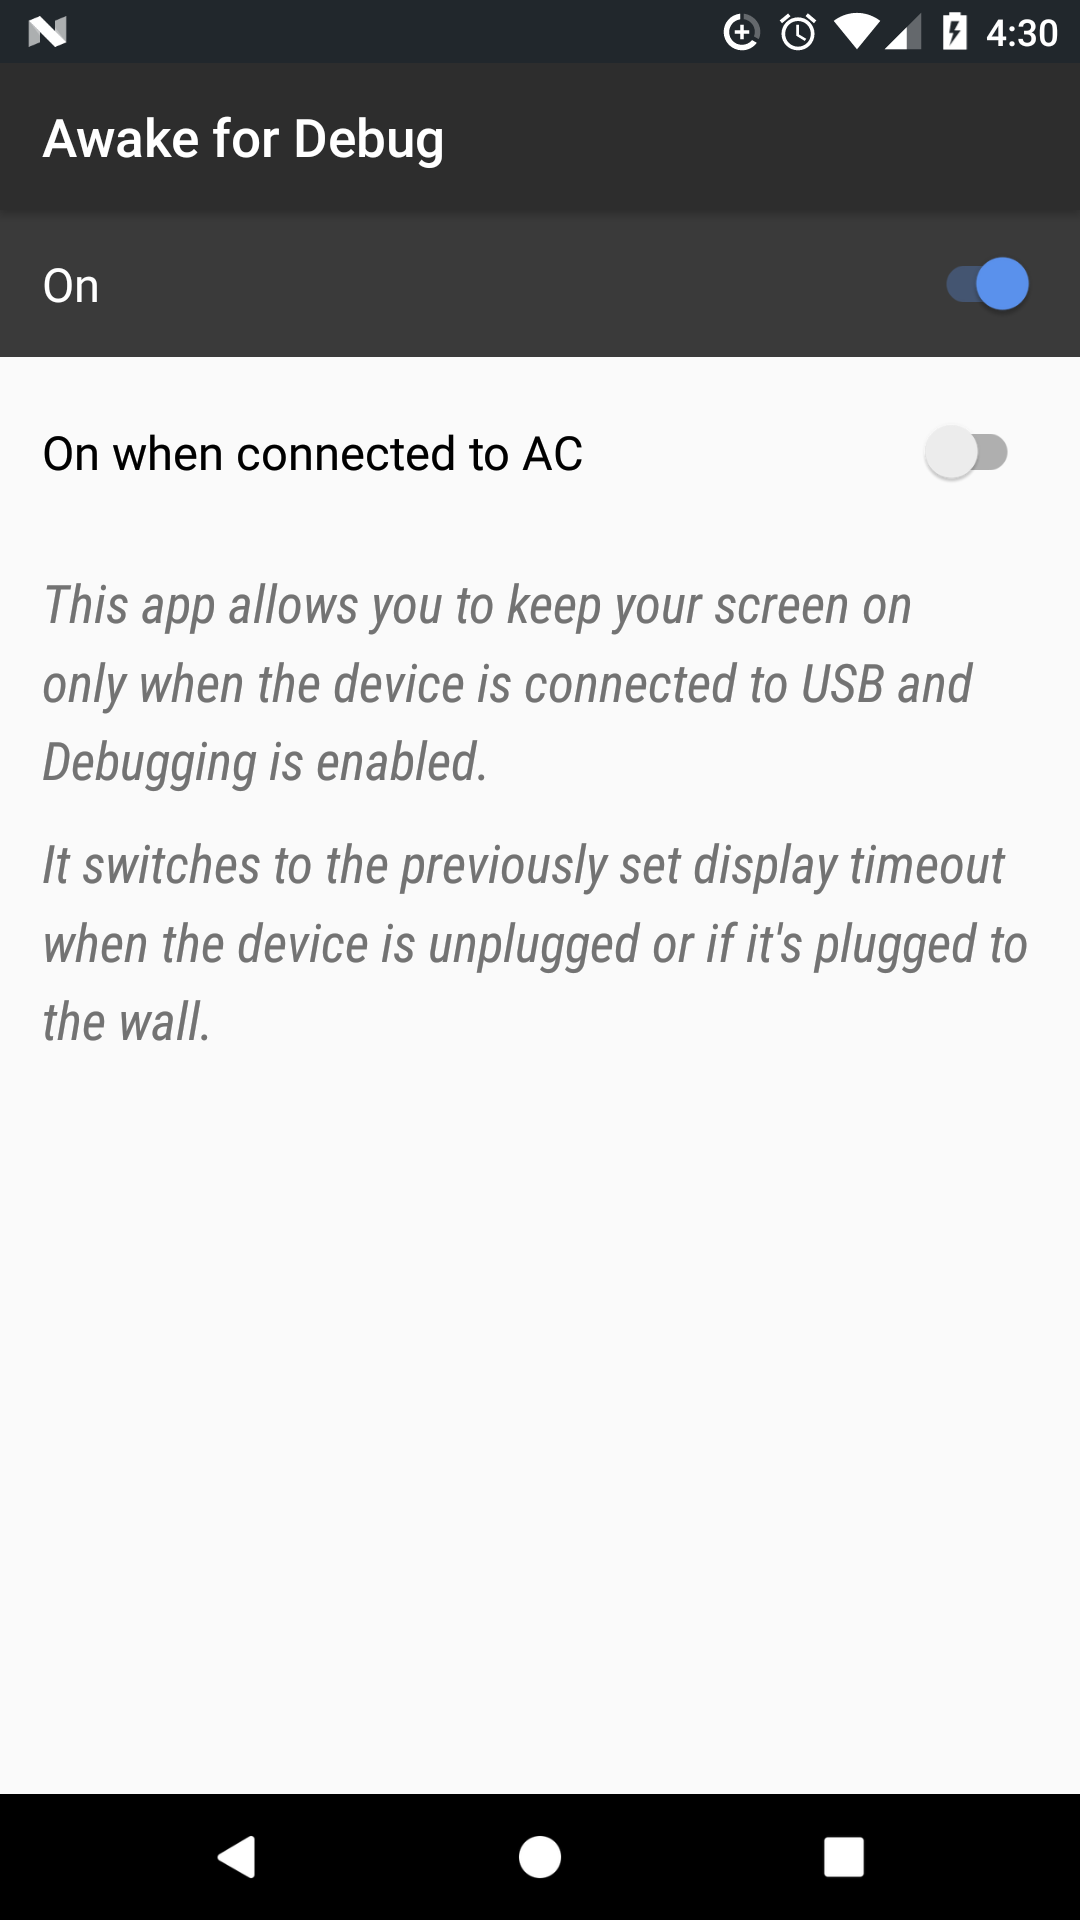
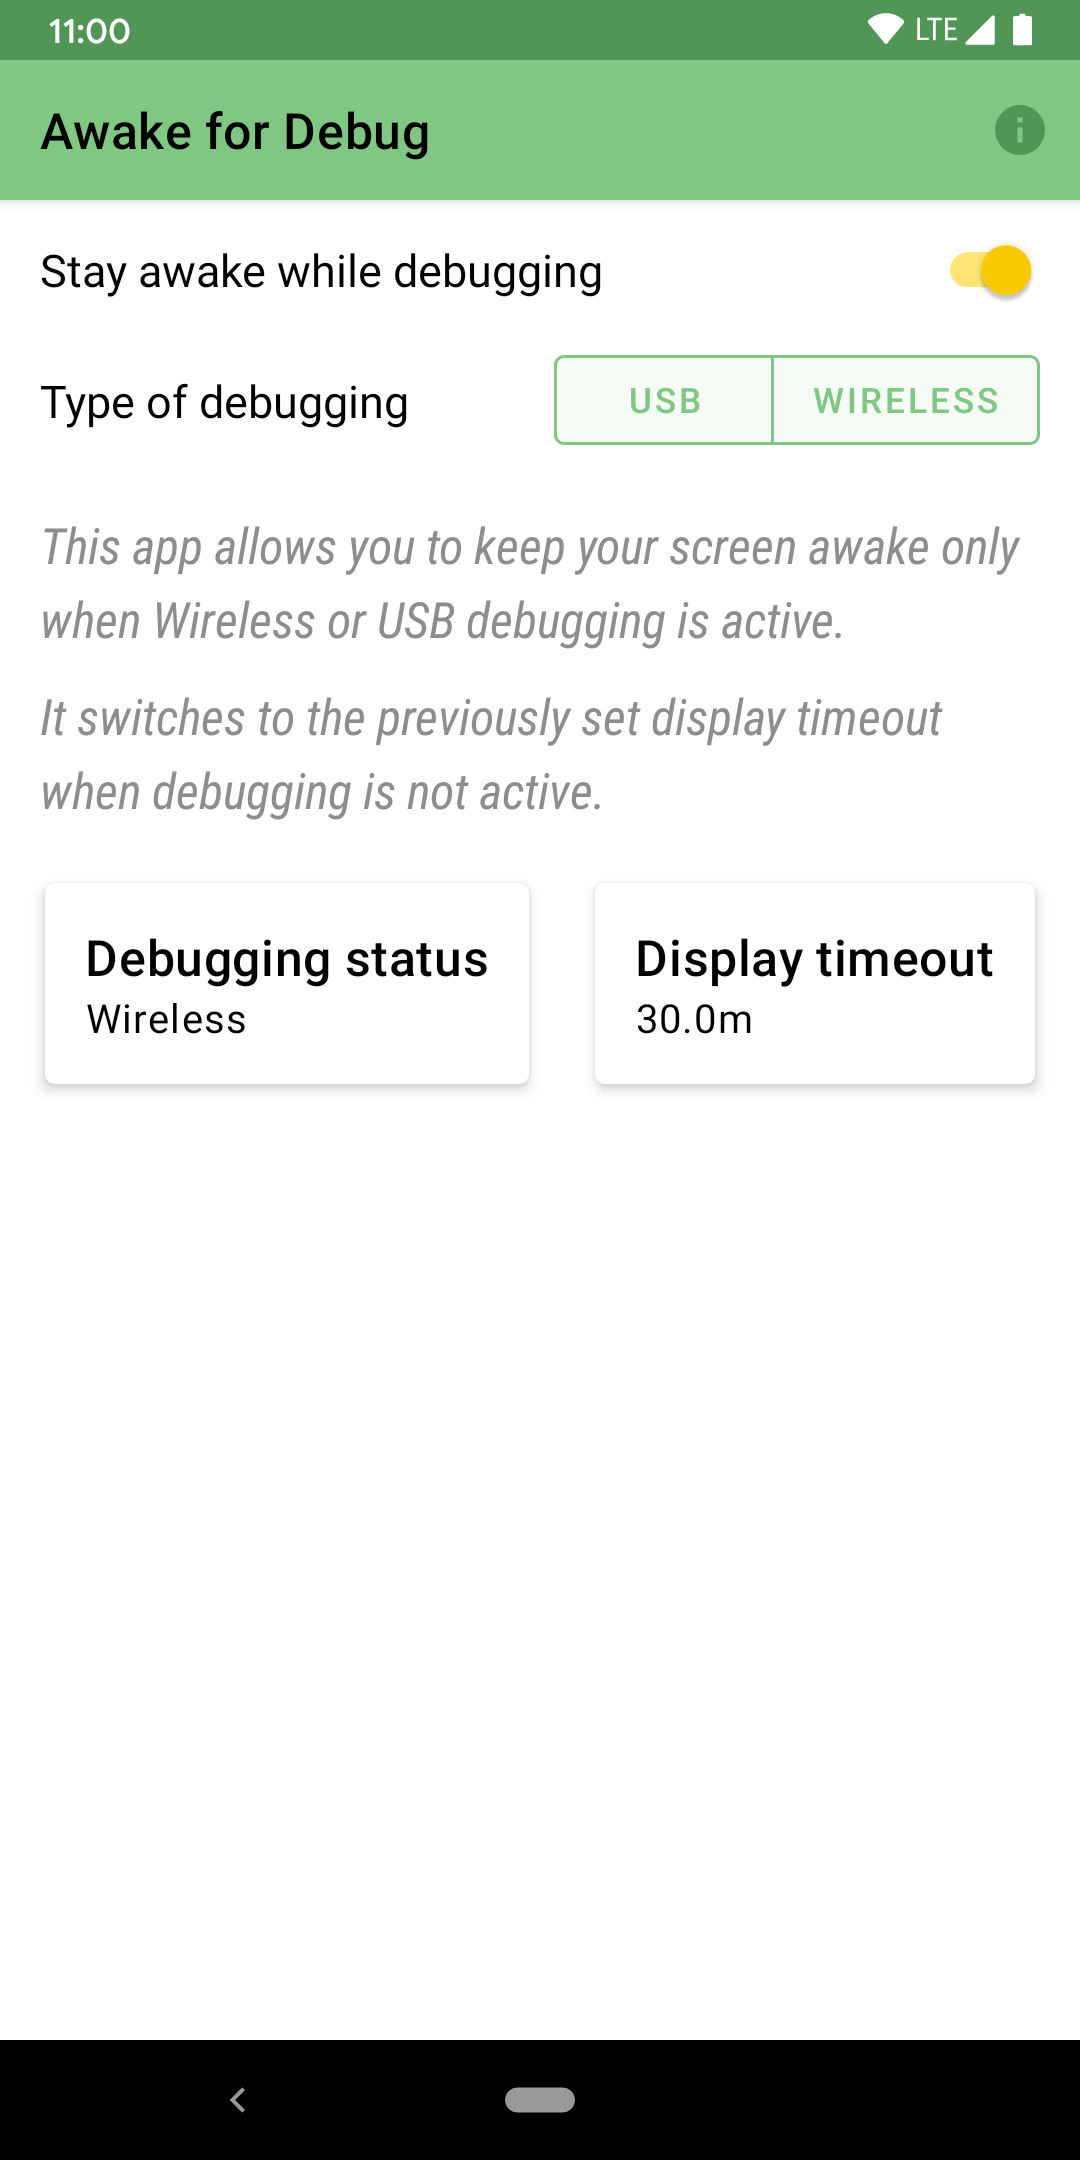
Updated readme with new screenshot

Changed region(s): [[0.0, 0.0, 1.0, 0.4062], [0.0306, 0.4375, 0.9472, 0.5625], [0.0, 0.9375, 1.0, 1.0]]

diff --git a/README.md b/README.md
@@ -1,35 +1,47 @@
-AwakeDebug
+Awake for Debug ![Deploy CI](https://github.com/AfzalivE/AwakeDebug/workflows/Deploy%20CI/badge.svg?branch=main)
 ==========
 <a href="https://play.google.com/store/apps/details?id=com.afzaln.awakedebug">
-  <img alt="Get it on Google Play"
-       src="https://developer.android.com/images/brand/en_generic_rgb_wo_45.png" />
+  <img alt="Get it on Google Play" width="20%"
+       src="https://play.google.com/intl/en_us/badges/static/images/badges/en_badge_web_generic.png" />
 </a>
 
 <p align="left">
-  <img src="/design/latest_playstore.png" alt="Messages screen (Phone)" height="30%" width="30%"/>
+  <img src="design/latest_playstore.png" alt="screenshot" height="30%" width="30%"/>
 </p>
 
 
-This app allows you to keep your screen awake while Wifi or USB debugging is active.
+Awake for Debug allows you to keep your screen awake while Wireless or USB debugging is active.
 
 It switches to the previously set display timeout when the device is unplugged.
 
 Permissions:
-- WRITE_SETTINGS to store the old display timeout.
+- WRITE_SETTINGS to set the display timeout.
 - INTERNET for Crashlytics (crash reports)
 
 Note: If the app crashes, please send the crash report so that I can fix it. No user-specific information is sent, only information related to the crash (stacktrace) and device information like OS version, free space, rooted/non-rooted, free RAM, etc, is sent.
 
-This application is open-source under the Apache license. 
+
+### Contributing
+All contributions are welcome!
 
 
-## Test cases
+### License
 
-1. New install. Plug into AC/USB, screen off timeout is unchanged.
+```
+Copyright 2020 Afzal Najam.
 
-### For USB debugging
+Licensed under the Apache License, Version 2.0 (the "License");
+you may not use this file except in compliance with the License.
+You may obtain a copy of the License at
 
-1. Switch on Awake for Debug, user sees permission dialog. User clicks cancel, everything remains unchanged.
-2. User grants permission, Switch is enabled. If user is already plugged into USB and debugging, screen off timeout is modified immediately. If not, after user plugs in USB and starts debugging, screen timeout is modified.
-3. User plugs out or disables/stops debugging, screen timeout goes back to what it was.
-4. User disables option, screen timeout goes back to what it was.
+   http://www.apache.org/licenses/LICENSE-2.0
+
+Unless required by applicable law or agreed to in writing, software
+distributed under the License is distributed on an "AS IS" BASIS,
+WITHOUT WARRANTIES OR CONDITIONS OF ANY KIND, either express or implied.
+See the License for the specific language governing permissions and
+limitations under the License.
+```
+
+
+> Note: Google Play and the Google Play logo are trademarks of Google LLC.
